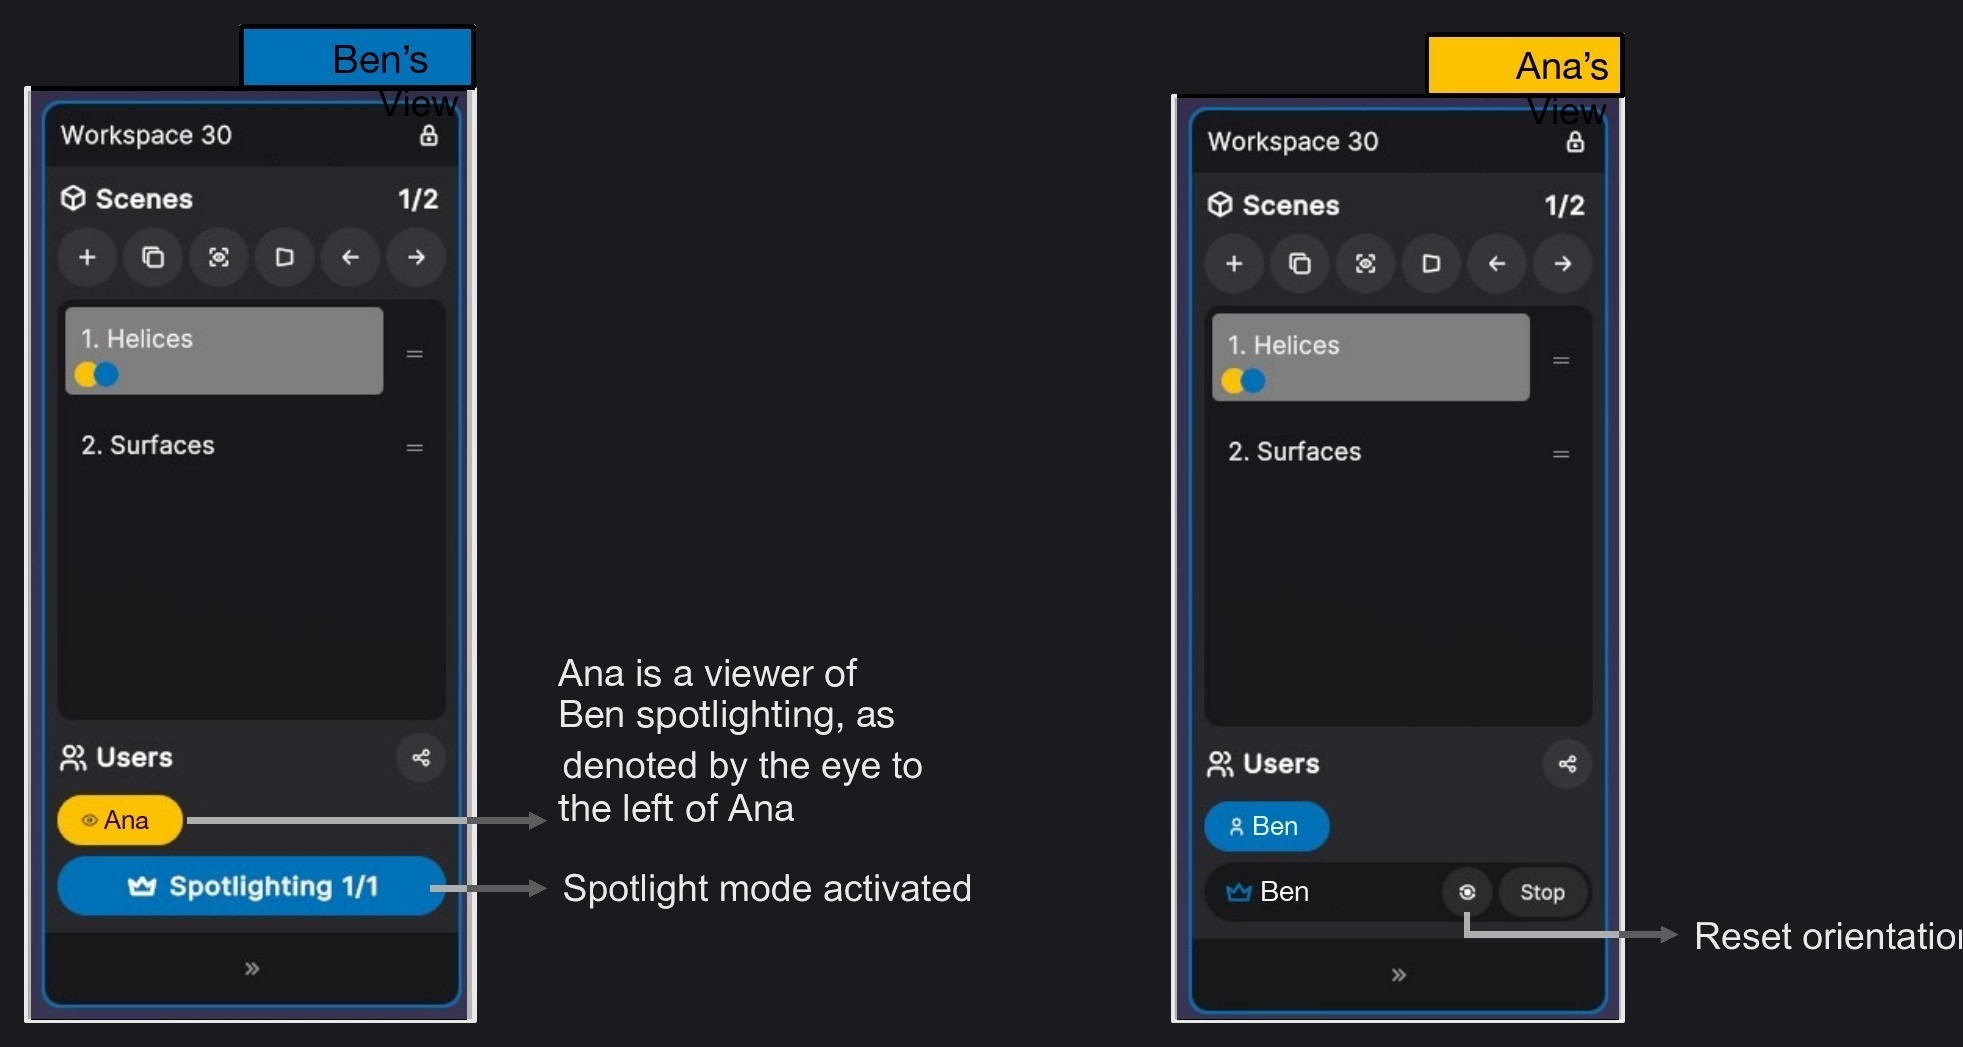
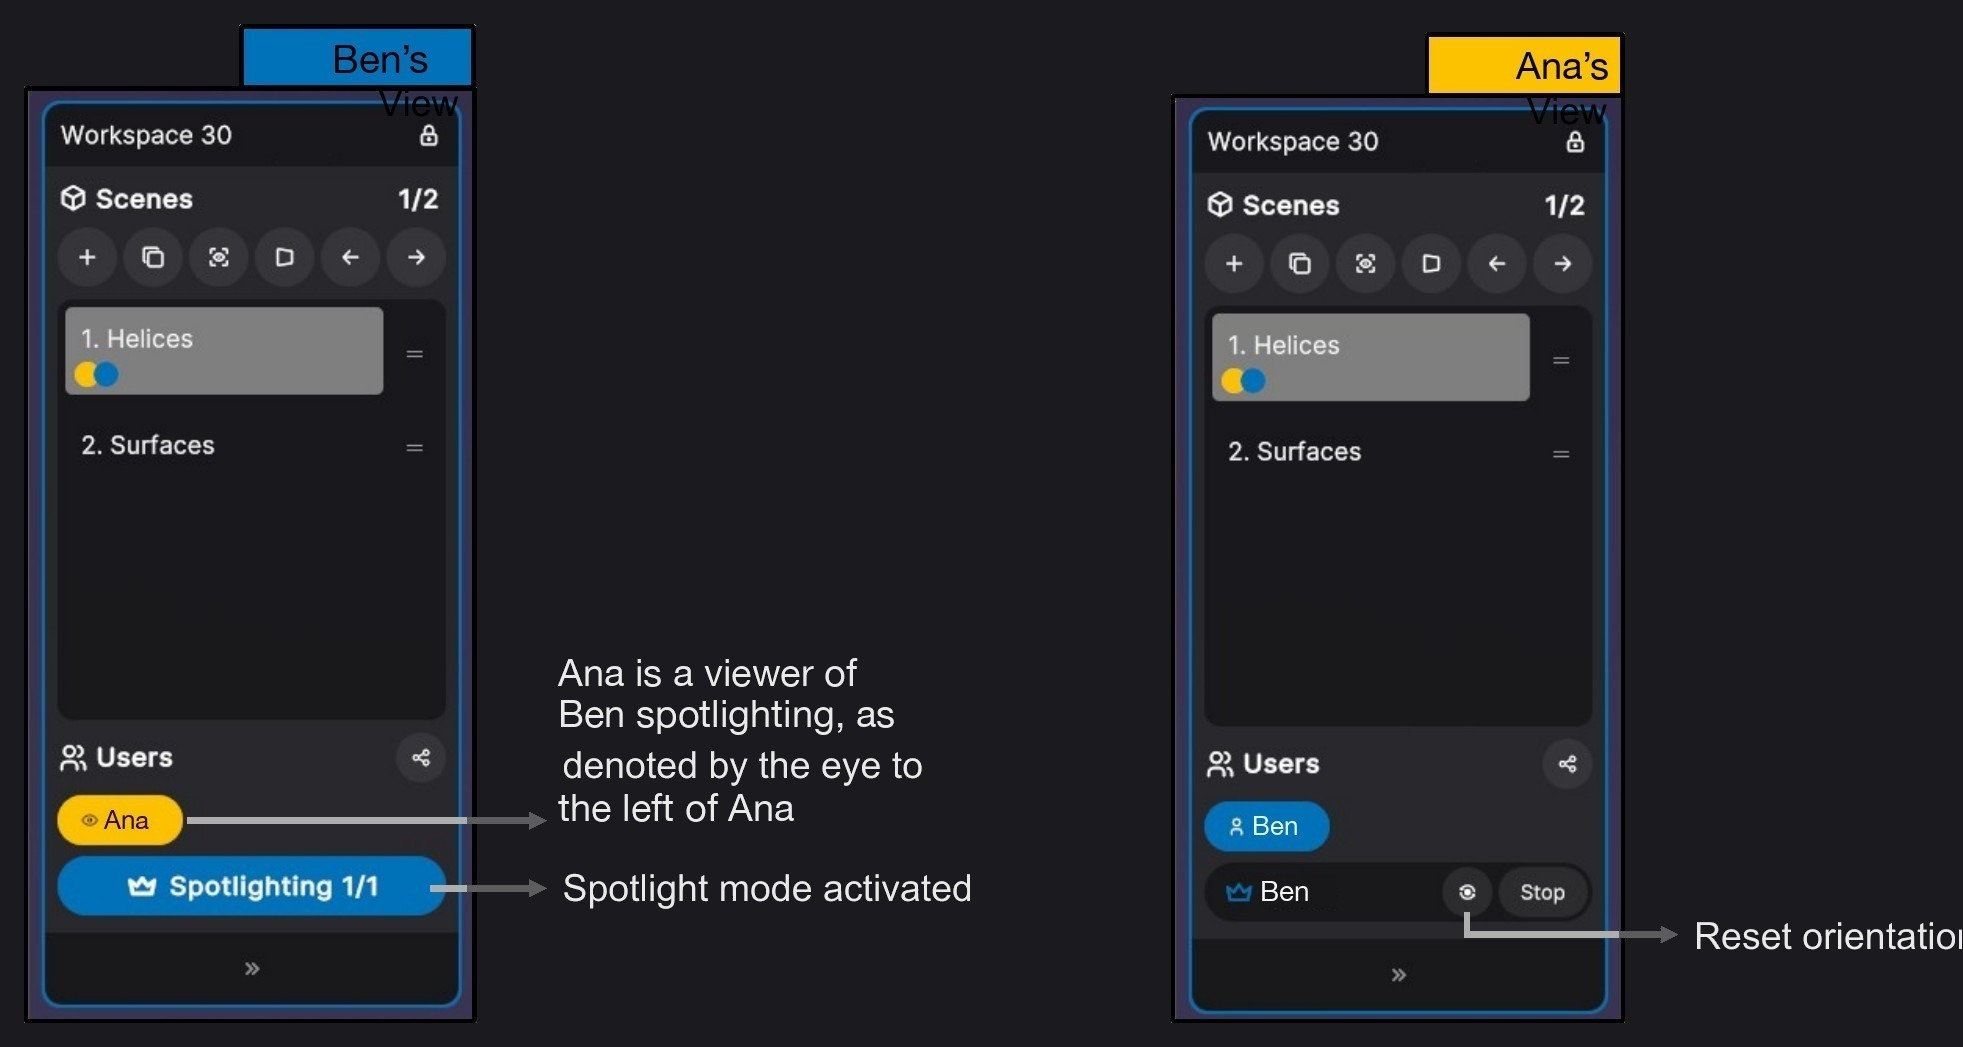
Describe XR panels, Open in XR and join requests the way the app works
- Create Component opens a picker for types, amino acids and nucleotides; loading replaces the list with a Loading... button that cancels
- Interactions row: shown for every component, its number counts the types switched on, and Filter shows only with a ligand
- Atom counts show when pointing at a component's name; HeavyAtomMolWeight is a monoisotopic mass (calcExactMW in RdkitCommandGenerateMetadata.cs)
- Night mode and Floor rows say what their icons look like while off, on the Main Panel and Environment pages
- Opening from MARA covers the Add to Workspace dialog and the Load from Web prompt
- Join requests go to the colleague, who accepts or denies them
- Scenes Panel: Disable Scene POVs label, header icons and tooltips, and the Spotlight figure cropped before its cut-off label, with black panel frames in dark mode
- Sequence Panel: Create turns into Update and the component name shows
- Tools Panel: Pointer selects whole residues; the Viewer list adds Report a problem and the Editor-only Create button and hiding annotations
- Environment: the map keeps its image full width, and pointers name any tool other than the Pointer

diff --git a/docs/nanome_v2/mainpanel.md b/docs/nanome_v2/mainpanel.md
@@ -33,7 +33,7 @@ Every structure in the workspace, and the components that control how it's drawn
 <UiItem icon="caret-down-filled" name="Collapse All" area="2.7,9.5,8.0,7.5">Collapses every entry.</UiItem>
 <UiItem icon="eye" name="Hide All" area="11.5,9.5,8.0,7.5">Hides every entry.</UiItem>
 <UiItem icon="sort-ascending-letters" name="Sort by Name" area="20.3,9.5,8.0,7.5">Sorts entries alphabetically.</UiItem>
-<UiItem icon="copy-plus" name="Create Component" area="29.1,9.5,8.0,7.5">Makes a component from the current selection.</UiItem>
+<UiItem icon="copy-plus" name="Create Component" area="29.1,9.5,8.0,7.5">Makes a component of a type, an amino acid or a nucleotide, in all entries or the ones you pick.</UiItem>
 <UiItem name="Search" area="56.2,10.2,41.2,6.2">Filters entries and components by name.</UiItem>
 <UiItem name="Position Molecules" area="4.7,92.2,38.1,4.7">At the bottom: lets structures be moved one by one.</UiItem>
 <UiItem icon="mist" name="Sequences" area="74.8,91.3,22.7,6.3">At the bottom: opens the Sequence Panel.</UiItem>
@@ -41,7 +41,7 @@ Every structure in the workspace, and the components that control how it's drawn
 
 </ShotRow>
 
-While a structure loads, a progress bar appears at the bottom of the tab, and the load can be cancelled.
+While a structure loads, a **Loading...** button with a progress bar takes the place of the list. Clicking it cancels the load.
 
 <Accordion title="Loading Report" teaser="Shown when the server has notes on a file you load.">
 
@@ -71,7 +71,7 @@ Each structure you load is an **entry**. Its row has these buttons:
 
 </ShotRow>
 
-- Hovering a row shows how many atoms it holds. An empty component is grayed out.
+- Pointing at a component's name shows how many atoms it holds. An empty component is grayed out.
 - An entry with more than one model or a trajectory also has [playback buttons](#model-and-trajectory-playback).
 - An entry with an electrostatic map loaded shows a <AppIcon name="paperclip" /> paperclip.
 
@@ -148,11 +148,11 @@ The copy of the panel below works like the app's: each switch shows 1KV2's bindi
 
 ### Interactions {#interactions}
 
-Components that carry interactions show an <AppIcon name="mist" /> **Interactions** row with a count. **Show** lists each type with its own switch:
+Each component's representations end with an <AppIcon name="mist" /> **Interactions** row and the number of interaction types switched on. **Show** lists each type with its own switch:
 
 <Btn>Hydrogen Bonds</Btn> <Btn>VDW Clashes</Btn> <Btn>π Stacking</Btn> <Btn>Salt Bridges</Btn> <Btn>Cation-π</Btn> <Btn>Halogen Bonds</Btn> <Btn>Halogen-π</Btn> <Btn>Hydrophobic</Btn> <Btn>Metal Coordination</Btn>
 
-The <AppIcon name="filter" /> **Filter** switch shows only interactions between ligand and non-ligand atoms. To list and pin interactions, use the [Interactions Tool](/nanome_v2/toolspanel#interactions-tool).
+The <AppIcon name="filter" /> **Filter** switch, there when the component has a ligand and a type is on, shows only interactions between ligand and non-ligand atoms. To list and pin interactions, use the [Interactions Tool](/nanome_v2/toolspanel#interactions-tool).
 
 <AccordionGroup label="Interaction details">
 
@@ -326,7 +326,7 @@ Nanome calculates the properties with RDKit on its server, and Nanome Web shows 
 | **NumAtoms** | Number of atoms, including hydrogens. For B96 in 1KV2 (C₃₁H₃₇N₅O₃) it's 76: 31 C, 37 H, 5 N and 3 O |
 | **NumHeavyAtoms** | Number of non-hydrogen atoms |
 | **MolWeight** | Monoisotopic (exact) mass in daltons, including hydrogens |
-| **HeavyAtomMolWeight** | Mass of the non-hydrogen atoms only |
+| **HeavyAtomMolWeight** | Monoisotopic (exact) mass of the non-hydrogen atoms only |
 | **LogP** | Wildman-Crippen estimate of log P, the base-10 logarithm of the octanol-water partition coefficient |
 | **TPSA** | Topological polar surface area (Ertl method, from N and O atoms only), in Å² |
 | **HbondD** | Hydrogen-bond donor count (RDKit's pattern-based definition, which differs from Lipinski's N-H plus O-H count) |
@@ -367,7 +367,7 @@ Each one comes from an X-ray structure of human p38α MAP kinase (UniProt Q16539
 
 The RDKit calls are `Chem.AddHs` then `GetNumAtoms` for NumAtoms, `GetNumHeavyAtoms` for NumHeavyAtoms, `Descriptors.ExactMolWt` for MolWeight, `Crippen.MolLogP` for LogP, `Chem.MolToInchiKey` for InChIKey, and the matching `rdMolDescriptors` function for TPSA, HbondD, HbondA and the 4 ring counts.
 
-The copy lists HeavyAtomMolWeight, NumRotatableBonds, Rating and SMILES in its picker but leaves their columns out. The first 2 depend on RDKit settings that haven't been matched to Nanome's, people enter Rating, and one molecule can be written as many valid SMILES. The tags are examples.
+The copy lists HeavyAtomMolWeight, NumRotatableBonds, Rating and SMILES in its picker but leaves their columns out. NumRotatableBonds depends on RDKit settings that haven't been matched to Nanome's, people enter Rating, and one molecule can be written as many valid SMILES. The tags are examples.
 
 </Accordion>
 
@@ -451,8 +451,8 @@ A free license gives Viewer access to workspaces others own.
 <ShotRow src="nanome-v2/v2-7/settings-tab.webp" alt="The Settings tab">
 
 <UiList label="Settings">
-<UiItem icon="moon" name="Night mode" area="4.4,9.1,6.9,5.3">Night or day skybox, when passthrough is off.</UiItem>
-<UiItem icon="view-360" name="Floor" area="12.0,9.1,6.9,5.3">Shows or hides the floor.</UiItem>
+<UiItem icon="moon" name="Night mode" area="4.4,9.1,6.9,5.3">Night or day skybox, when passthrough is off. The icon is a sun while it's off.</UiItem>
+<UiItem icon="view-360" name="Floor" area="12.0,9.1,6.9,5.3">Shows or hides the floor. The icon is crossed out while the floor is hidden.</UiItem>
 <UiItem name="Skybox theme" href="#day-night-mode-and-themes" area="19.7,9.2,25.2,5.1">Seven themes, each with a day and a night version.</UiItem>
 <UiItem icon="scan-eye" name="Passthrough" area="50.9,9.1,44.4,5.3">Mixed reality or a full skybox. On to start where the headset supports it, grayed out where it doesn't.</UiItem>
 <UiItem icon="hand-stop" name="Left-handed mode" area="4.4,19.0,90.9,5.4">Makes the left hand dominant.</UiItem>

diff --git a/docs/nanome_v2/environment.md b/docs/nanome_v2/environment.md
@@ -8,8 +8,8 @@ The Nanome XR environment is a floor with a skybox around it, with the structure
 
 <ScreenMap src="nanome-v2/v2-7/xr-environment.webp" alt="The view from a headset: a structure in the middle, two other people's avatars beside it, and a pointer at the tip of each of your controllers" label="The Nanome XR environment">
 <MapCard icon="view-360" title="Skybox" href="#skybox-and-floor" side="top" area="0,0,100,50">Mountains in your theme's colors, by day or by night, or plain black in Pure Black. Passthrough shows your room instead.</MapCard>
-<MapCard icon="users-group" title="Avatars" href="#avatars" side="left" area="29.8,32.4,9.0,19.2">A head and hands for each person in the session. Off to start.</MapCard>
-<MapCard icon="tag" title="Name tag" href="#avatars" side="right" area="60.4,35.0,7.7,3.2">Their name, their mic, and the number of the scene they're in.</MapCard>
+<MapCard icon="users-group" title="Avatars" href="#avatars" side="top" area="29.8,32.4,9.0,19.2">A head and hands for each person in the session. Off to start.</MapCard>
+<MapCard icon="tag" title="Name tag" href="#avatars" side="top" area="60.4,35.0,7.7,3.2">Their name, their mic, and the number of the scene they're in.</MapCard>
 <MapCard icon="droplet" title="Pointer" href="#pointers" side="bottom" area="68.4,77.0,4.2,7.0">At the tip of each controller. Everyone sees it on the same part of the structure.</MapCard>
 <MapCard icon="view-360" title="Floor" href="#skybox-and-floor" side="bottom" area="0,50,100,50">A grid under the structures. It can be turned off.</MapCard>
 </ScreenMap>
@@ -23,8 +23,8 @@ Since release 2.7 the skyboxes are procedurally generated mountains in the color
 They're set at the top of the [Settings tab](/nanome_v2/mainpanel#settings-tab):
 
 <UiList label="Environment settings">
-<UiItem icon="moon" name="Night mode" area="4.4,9.1,6.9,5.3">Switches the skybox between its day and night versions.</UiItem>
-<UiItem icon="view-360" name="Floor" area="12.0,9.1,6.9,5.3">Shows or hides the floor overlay.</UiItem>
+<UiItem icon="moon" name="Night mode" area="4.4,9.1,6.9,5.3">Switches the skybox between its day and night versions. The icon is a sun while it's off.</UiItem>
+<UiItem icon="view-360" name="Floor" area="12.0,9.1,6.9,5.3">Shows or hides the floor overlay. The icon is crossed out while the floor is hidden.</UiItem>
 <UiItem name="Skybox theme" area="19.7,9.2,25.2,5.1">Sets the theme.</UiItem>
 <UiItem icon="scan-eye" name="Passthrough" area="50.9,9.1,44.4,5.3">Mixed reality: the real room shows around the structures.</UiItem>
 </UiList>
@@ -37,7 +37,7 @@ Each theme in the copy below shows the view from a headset in it, by day or by n
 
 ## <AppIcon name="droplet" /> Pointers {#pointers}
 
-Pointers are positioned relative to the structures. As someone moves their controllers around a structure, everyone in the session sees their pointer pointing at the same structural feature. A pointer shows its owner's name, and when you follow someone, their pointer also shows the tool they're using.
+Pointers are positioned relative to the structures. As someone moves their controllers around a structure, everyone in the session sees their pointer pointing at the same structural feature. A pointer shows its owner's name, and the name of the tool they're holding when it isn't the Pointer.
 
 Pointing at an interaction, a measurement or a text note shows a tooltip with its details.
 

diff --git a/docs/nanome_v2/scenespanel.md b/docs/nanome_v2/scenespanel.md
@@ -19,15 +19,15 @@ The Scenes Panel sits in the left sidebar, beside the Main Panel. A scene is a s
 The top of the sidebar shows the workspace name and two icons:
 
 <UiList label="Workspace header">
-<UiItem icon="alert-triangle" name="Network health">Appears when the connection degrades, showing High ping, Reconnecting or Connection lost.</UiItem>
-<UiItem icon="lock" name="Access">Shows whether the workspace is private or shared, its project and its code.</UiItem>
+<UiItem icon="alert-triangle" name="Network health">Appears when the connection degrades. Its tooltip shows the ping, or that the connection was lost.</UiItem>
+<UiItem icon="user" name="Access">A lock when the workspace is private, a person or two people when it's shared. Hovering the workspace name shows its project, and its code when it has one.</UiItem>
 </UiList>
 
 ## <AppIcon name="box" /> Controls {#controls}
 
 <UiList label="Scene controls">
 <UiItem icon="plus" name="Create scene">Adds a scene.</UiItem>
-<UiItem icon="settings" name="Scene settings" href="#scene-settings">Recenter Self, Set scene POV, and Enable/disable scene POVs.</UiItem>
+<UiItem icon="settings" name="Scene settings" href="#scene-settings">Recenter Self, Set scene POV, and Disable Scene POVs.</UiItem>
 <UiItem icon="arrow-left" name="Previous scene">Steps back through the scenes.</UiItem>
 <UiItem icon="arrow-right" name="Next scene">Steps forward through the scenes.</UiItem>
 <UiItem icon="player-play" name="Play scenes">Plays the scenes, with their recordings.</UiItem>
@@ -41,7 +41,7 @@ The top of the sidebar shows the workspace name and two icons:
 <UiList label="Scene settings">
 <UiItem icon="target" name="Recenter Self" area="28.0,26.3,64.2,5.3">Resets your position as the viewing origin.</UiItem>
 <UiItem icon="scan-eye" name="Set scene POV" area="28.0,33.3,64.2,5.2">Saves your current perspective as the scene's point of view.</UiItem>
-<UiItem icon="perspective" name="Enable/disable scene POVs" area="28.0,40.1,64.2,5.2">Sets whether switching scenes moves your view to each scene's point of view.</UiItem>
+<UiItem icon="perspective" name="Disable Scene POVs" area="28.0,40.1,64.2,5.2">Sets whether switching scenes moves your view to each scene's point of view. It reads Enable Scene POVs while they're off.</UiItem>
 </UiList>
 
 </ShotRow>
@@ -107,7 +107,7 @@ With several people in a workspace, colored dots on each scene show who's viewin
 
 ## <AppIcon name="crown" /> Spotlight Mode {#spotlight-mode}
 
-<ShotRow src="nanome-v2/scenes-panel-spotlight-mode.jpg" alt="Ben spotlighting with Ana following, as each of them sees it">
+<ShotRow src="nanome-v2/scenes-panel-spotlight-mode.jpg" alt="Ben spotlighting with Ana following, as each of them sees it" crop="0,0,82.9,100">
 
 **Spotlight Me** makes your view the shared perspective for everyone who follows you.
 

diff --git a/docs/nanome_v2/toolspanel.md b/docs/nanome_v2/toolspanel.md
@@ -8,7 +8,7 @@ title: Tools Panel
 The Tools Panel is the column of buttons on the right side of the Main Panel. Choosing a tool changes what the controller does in 3D and opens that tool's panel. The tools, from top to bottom, and the three more buttons below them:
 
 <ScreenMap src="nanome-v2/v2-7/desktop-layout.webp" alt="The Tools Panel, with the Pointer chosen" crop="40.0,9.5,22.3,60.8" label="Tools Panel buttons">
-<MapCard icon="droplet" title="Pointer" href="#pointer" side="top" area="50.0,11.3,2.3,4.0">Hover over and select residues and atoms.</MapCard>
+<MapCard icon="droplet" title="Pointer" href="#pointer" side="top" area="50.0,11.3,2.3,4.0">Hover over and select whole residues.</MapCard>
 <MapCard icon="lasso" title="Selection Tool" href="#selection-tool" side="left" area="50.0,15.5,2.3,4.0">Build a selection by clicking or dragging over atoms.</MapCard>
 <MapCard icon="ruler-2" title="Measurement Tool" href="#measurement-tool" side="left" area="50.0,19.6,2.3,4.0">Measure distances, angles and dihedrals.</MapCard>
 <MapCard icon="message" title="Comments" href="#comments" side="left" area="50.0,23.8,2.3,4.0">Comments, text notes and sound notes.</MapCard>
@@ -24,7 +24,7 @@ The Tools Panel is the column of buttons on the right side of the Main Panel. Ch
 
 <Callout type="note" title="Viewer or Editor">
 
-Viewers can use <Btn icon="droplet">Pointer</Btn> and <Btn icon="lasso">Selection Tool</Btn>, and post comments. Everything else needs Editor access: the other tools, the Comments tool's Text, Sound and Delete modes, <Btn icon="download">Load Structure</Btn> and <Btn icon="sparkles">Open MARA</Btn>.
+Viewers can use <Btn icon="droplet">Pointer</Btn>, <Btn icon="lasso">Selection Tool</Btn> and <Btn icon="bug">Report a problem</Btn>, and post comments. Everything else needs Editor access: the other tools, the Selection Tool's **Create** button, the Comments tool's Text, Sound and Delete modes and hiding annotations, <Btn icon="download">Load Structure</Btn> and <Btn icon="sparkles">Open MARA</Btn>.
 
 </Callout>
 

diff --git a/docs/nanome_v2/sampleworkflows.md b/docs/nanome_v2/sampleworkflows.md
@@ -21,15 +21,15 @@ Examples of workflows in Nanome XR, including using MARA to open and prep struct
 1. Sign in to Nanome Web and to Nanome XR with the same account.
 2. In Nanome Web, open **Conversations** and start a new chat.
 3. Ask MARA to load a structure, for example "Load 1KV2". MARA shows it in its 3D viewer (Mol*).
-4. Click **Open in XR**, and a message appears in MARA.
-5. Go to the Nanome app in your XR headset. The structure is there as a new workspace named after the chat.
+4. Click **Open in XR**. In **Add to Workspace**, pick a workspace or type a name for a new one, then click **Upload**.
+5. Nanome Web opens that workspace and sends it to Nanome XR. In the headset it opens straight away when you're alone, or with a [Load from Web](/nanome_v2/collaboration#load-for-all-vs-load-for-me) prompt when others are in your session.
 
 </Steps>
 
 <Callout type="note" title="After opening">
 
-- The new workspace starts as private. Its permissions can be changed afterwards with **Share** in the [Users tab](/nanome_v2/mainpanel#share).
-- Each **Open in XR** from MARA creates a new workspace.
+- A new workspace starts as private. Its permissions can be changed afterwards with **Share** in the [Users tab](/nanome_v2/mainpanel#share).
+- **Open in XR** can add the structure to an existing workspace or start a new one.
 - Representations might not match exactly between Mol* and Nanome. In those cases, our team is happy to help. Please reach out to us at support@nanome.ai to help us build solutions for representations.
 
 </Callout>

diff --git a/docs/nanome_v2/collaboration.md b/docs/nanome_v2/collaboration.md
@@ -41,10 +41,10 @@ Both start from **Users in organization**, in the Users tab.
 
 <UiList label="Invitations and join requests">
 <UiItem icon="plus" name="Invite">Beside a colleague: invites them to your workspace.</UiItem>
-<UiItem icon="login" name="Join">Takes you to the colleague's workspace. Without access, it sends the owner a join request.</UiItem>
+<UiItem icon="login" name="Join">Takes you to the colleague's workspace. Without access, it sends the colleague a join request. Join is off when the colleague has less than Editor access there.</UiItem>
 </UiList>
 
-An invited colleague sees **Join Workspace?** with <Btn icon="x">Refuse</Btn> or <Btn icon="check">Accept</Btn>. The owner can accept a join request as <Btn icon="eye">Viewer</Btn> or <Btn icon="edit">Editor</Btn>, or <Btn icon="ban">Deny</Btn> it.
+An invited colleague sees **Join Workspace?** with <Btn icon="x">Refuse</Btn> or <Btn icon="check">Accept</Btn>. The colleague can accept a join request as <Btn icon="eye">Viewer</Btn> or <Btn icon="edit">Editor</Btn>, or <Btn icon="ban">Deny</Btn> it.
 
 ## <AppIcon name="layout-grid" /> Load for All vs. Load for Me {#load-for-all-vs-load-for-me}
 

diff --git a/docs/nanome_v2/sequencepanel.md b/docs/nanome_v2/sequencepanel.md
@@ -20,6 +20,6 @@ The Sequence Panel shows the sequences of all loaded structures, protein and nuc
 <UiItem name="Create" area="87.6,57.5,7.6,11.1">Creates a component from the selected residues.</UiItem>
 </UiList>
 
-When a component is active in the panel, an **Update** button also appears. It updates that component with the current selection.
+When a component is active in the panel, its name shows beside the buttons and **Create** becomes **Update**, which updates that component with the current selection. Selecting the name ends that, and the button goes back to **Create**.
 
 </ShotRow>
